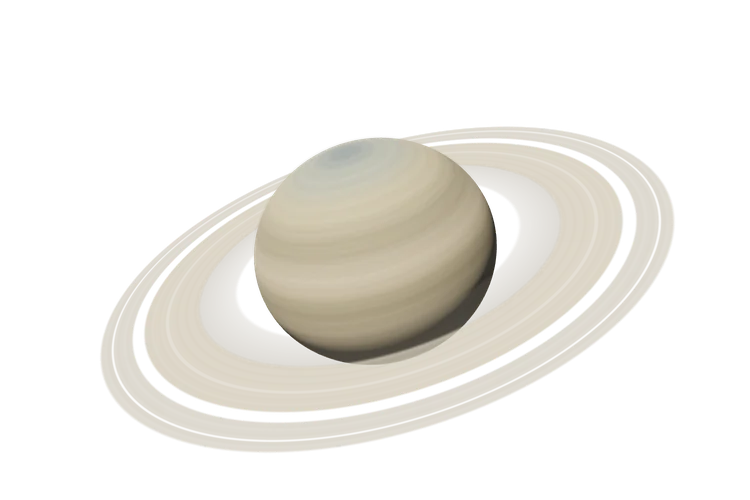
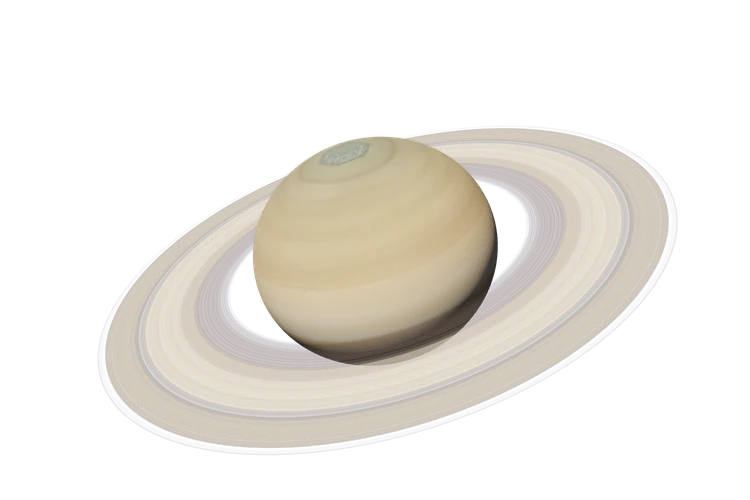
feat: Saturno com texturas fotográficas e bordas suavizadas
- texturas baseadas em imagens reais (Solar System Scope, CC BY 4.0)
- renderização acima de 1x no desktop e malha mais densa
- anéis com filtragem radial, borda suavizada e luz transmitida
- imagem reserva refeita a partir do novo modelo

Changed region(s): [[0.1227, 0.24, 0.92, 0.93]]

diff --git a/assets/js/saturn-model.js b/assets/js/saturn-model.js
@@ -34,6 +34,9 @@ const planetFragment = sharedFragment + '\n' + [
   ' vec3 normal = normalize(vLocalNormal);',
   ' vec3 view = normalize(uCamera - vLocalPosition);',
   ' vec3 albedo = texture2D(uSurface, vec2(vUv.x + uRotation, vUv.y)).rgb;',
+  ' float facing = max(dot(normal, view), 0.0);',
+  // Limb darkening of a gas giant: the disk dims toward its edge.
+  ' albedo *= mix(0.62, 1.0, pow(facing, 0.38));',
   ' float direct = max(dot(normal, uLight), 0.0);',
   ' float shadow = 1.0;',
   ' if (abs(uLight.y) > 0.02) {',
@@ -52,7 +55,7 @@ const planetFragment = sharedFragment + '\n' + [
   ' }',
   ' vec3 ambient = vec3(0.075, 0.083, 0.1);',
   ' vec3 sunlight = vec3(1.25, 1.17, 1.02) * pow(direct, 0.92) * shadow;',
-  ' float rim = 1.0 - max(dot(normal, view), 0.0);',
+  ' float rim = 1.0 - facing;',
   ' float limb = rim * rim * rim;',
   ' vec3 scattering = vec3(0.13, 0.12, 0.095) * limb * smoothstep(-0.15, 0.75, dot(normal, uLight));',
   ' vec3 color = (albedo * (ambient + sunlight) + scattering) * uIntensity;',
@@ -67,16 +70,22 @@ const ringFragment = sharedFragment + '\n' + [
   'void main() {',
   ' float radius = length(vLocalPosition.xz);',
   ' float coordinate = ringCoordinate(radius);',
-  // A slightly wider mip footprint filters thin radial bands during rotation.
-  ' vec4 band = texture2D(uRings, vec2(coordinate, 0.5), 0.6);',
-  ' if (band.a <= 0.0) discard;',
+  // Explicit radial derivatives filter thin bands; the edges fade over one pixel.
+  ' float dx = dFdx(radius), dy = dFdy(radius);',
+  ' float pixel = max(abs(dx) + abs(dy), 1e-5);',
+  ' vec4 band = textureGrad(uRings, vec2(coordinate, 0.5), vec2(dx / 1.18 * 1.25, 0.0), vec2(dy / 1.18 * 1.25, 0.0));',
+  ' band.a *= smoothstep(1.18, 1.18 + pixel * 1.5, radius) * (1.0 - smoothstep(2.36 - pixel * 1.5, 2.36, radius));',
+  ' if (band.a <= 0.002) discard;',
   ' vec3 rayOrigin = vLocalPosition / vec3(1.0, 0.9, 1.0);',
   ' vec3 rayDirection = uLight / vec3(1.0, 0.9, 1.0);',
   ' float closest = max(0.0, -dot(rayOrigin, rayDirection) / dot(rayDirection, rayDirection));',
   ' float distanceToBody = length(rayOrigin + rayDirection * closest);',
   ' float lightThrough = closest > 0.001 ? smoothstep(0.985, 1.035, distanceToBody) : 1.0;',
   ' float planeLight = 0.5 + 0.5 * abs(uLight.y);',
-  ' vec3 color = band.rgb * (0.10 + vec3(1.12, 1.06, 0.95) * planeLight * lightThrough) * uIntensity;',
+  // Seen from the unlit face, sparse ring regions glow and dense ones darken.
+  ' float litFace = step(0.0, uLight.y * (uCamera.y - vLocalPosition.y));',
+  ' float transmission = mix(0.45 + 0.55 * (1.0 - band.a), 1.0, litFace);',
+  ' vec3 color = band.rgb * (0.10 + vec3(1.12, 1.06, 0.95) * planeLight * lightThrough * transmission) * uIntensity;',
   ' gl_FragColor = vec4(color, band.a);',
   ' #include <tonemapping_fragment>',
   ' #include <colorspace_fragment>',
@@ -107,7 +116,7 @@ export async function createSaturnModel({ surfaceUrl, ringUrl, compact = false }
   for (const texture of textures) {
     texture.colorSpace = SRGBColorSpace;
     texture.wrapT = ClampToEdgeWrapping;
-    texture.anisotropy = compact ? 2 : 4;
+    texture.anisotropy = compact ? 4 : 8;
   }
   surface.wrapS = RepeatWrapping;
   rings.wrapS = ClampToEdgeWrapping;
@@ -122,12 +131,12 @@ export async function createSaturnModel({ surfaceUrl, ringUrl, compact = false }
     uIntensity: { value: 1 }
   };
   const uniforms = { ...shared, uSurface: { value: surface }, uRings: { value: rings }, uRotation: { value: 0 } };
-  const globeGeometry = new SphereGeometry(1, compact ? 64 : 96, compact ? 40 : 64);
+  const globeGeometry = new SphereGeometry(1, compact ? 112 : 192, compact ? 72 : 128);
   globeGeometry.scale(1, 0.9, 1);
   const globe = new Mesh(globeGeometry, new ShaderMaterial({ vertexShader, fragmentShader: planetFragment, uniforms }));
   globe.name = 'Saturn body';
   group.add(globe);
-  const ringGeometry = new RingGeometry(1.18, 2.36, compact ? 160 : 256, 1);
+  const ringGeometry = new RingGeometry(1.18, 2.36, compact ? 320 : 640, 1);
   ringGeometry.rotateX(-Math.PI / 2);
   const ring = new Mesh(ringGeometry, new ShaderMaterial({
     vertexShader, fragmentShader: ringFragment, uniforms,
@@ -136,7 +145,7 @@ export async function createSaturnModel({ surfaceUrl, ringUrl, compact = false }
   ring.renderOrder = 2;
   ring.name = 'Saturn rings';
   group.add(ring);
-  const atmosphereGeometry = new SphereGeometry(1.014, compact ? 48 : 64, compact ? 32 : 48);
+  const atmosphereGeometry = new SphereGeometry(1.014, compact ? 96 : 160, compact ? 64 : 96);
   atmosphereGeometry.scale(1, 0.9, 1);
   const atmosphere = new Mesh(atmosphereGeometry, new ShaderMaterial({
     vertexShader, fragmentShader: atmosphereFragment, uniforms: shared,

diff --git a/index.html b/index.html
@@ -9,7 +9,7 @@
 <link rel="stylesheet" href="assets/css/saturn.css">
 <link rel="stylesheet" href="assets/css/page-transitions.css">
 <script src="assets/js/page-transitions.js" data-inline data-home="./"></script>
-</head><body class="portfolio-site home-page saturn-home"><div class="saturn-scene" data-saturn-module="assets/js/saturn-scene.js" data-saturn-surface="assets/img/saturn/surface.webp" data-saturn-rings="assets/img/saturn/rings.png" aria-hidden="true"><div class="saturn-fallback"><img src="assets/img/saturn/poster.webp" width="750" height="500" alt="" decoding="async" fetchpriority="low"></div></div>
+</head><body class="portfolio-site home-page saturn-home"><div class="saturn-scene" data-saturn-module="assets/js/saturn-scene.js" data-saturn-surface="assets/img/saturn/surface.webp" data-saturn-surface-compact="assets/img/saturn/surface-compact.webp" data-saturn-rings="assets/img/saturn/rings.png" aria-hidden="true"><div class="saturn-fallback"><img src="assets/img/saturn/poster.webp" width="750" height="500" alt="" decoding="async" fetchpriority="low"></div></div>
 <span class="opening-top-sentinel" data-opening-anchor aria-hidden="true"></span><a class="skip-link" href="#conteudo">Ir para o conteúdo</a>
 <header class="site-header"><div class="header-inner wrap">
 <a class="brand" href="./">Franklin Júnior Maciel<span class="brand-note">Portfólio</span></a>

diff --git a/assets/js/saturn-scene.js b/assets/js/saturn-scene.js
@@ -175,9 +175,11 @@ export async function mountSaturn(host) {
   }
   function sizeRenderer(force=false) {
     if(!renderer)return;
-    // Keep the drawing buffer stable during motion, including at high device DPR.
-    const cap=compact?1.75:2;
-    const ratio=Math.min(window.devicePixelRatio||1,cap,Math.sqrt(3000000/(width*height)));
+    // Keep the drawing buffer stable during motion. Desktop renders above 1x on
+    // standard screens so ring edges stay smooth while the planet moves.
+    const dpr=window.devicePixelRatio||1;
+    const desired=compact?Math.min(dpr,1.75):Math.min(Math.max(dpr,1.5),2);
+    const ratio=Math.min(desired,Math.sqrt((compact?3000000:6500000)/(width*height)));
     if(!force&&ratio===renderRatio)return;
     renderRatio=ratio;
     renderer.setPixelRatio(ratio);
@@ -302,7 +304,7 @@ export async function mountSaturn(host) {
     sizeRenderer(true);
     renderCanvas.addEventListener('webglcontextlost',event=>{event.preventDefault();useImage();},events);
     const loaded=await createSaturnModel({
-      surfaceUrl:new URL(host.dataset.saturnSurface,document.baseURI).href,
+      surfaceUrl:new URL((compact&&host.dataset.saturnSurfaceCompact)||host.dataset.saturnSurface,document.baseURI).href,
       ringUrl:new URL(host.dataset.saturnRings,document.baseURI).href,
       compact
     });

diff --git a/README.md b/README.md
@@ -36,7 +36,7 @@ Saturno aparece somente na inicial, depois da segunda dobra: a apresentação do
 
 A seleção das poses acompanha a rolagem em um callback passivo, agrupado por quadro, e usa a altura atual da janela, separada da altura estável do canvas. Como o rodapé é curto, a transição final começa quando metade dele fica visível. Isso permite concluir o percurso no centro mesmo parando pouco antes do fim e evita depender de um evento de interseção a 100%, que pode não ocorrer por arredondamento da altura da página. Os testes cobrem passos de roda do mouse, a tecla End, retorno e a imagem renderizada em 390, 1440 e 1916 px.
 
-`assets/js/saturn-model.js` constrói o corpo achatado, os anéis transparentes e a atmosfera, com sombras entre os elementos e texturas procedurais em `assets/img/saturn/`. Os anéis têm transições suaves de densidade e filtragem por mipmaps; a sombra usa derivadas explícitas para amostrar a textura. `saturn.css` mantém o canvas atrás do HTML e protege o contraste com uma sombra ampla. A cena usa três chamadas de desenho, suavização de bordas também no celular e limite de 3 milhões de pixels. O DPR fica limitado a 1,75 no celular e 2 no desktop, sem redução de resolução durante o movimento. A animação pausa em aba oculta, durante a ampliação das fotos e quando a cena é suprimida para impressão ou cores forçadas. Uma imagem de 52 KB permanece disponível sem JavaScript, sem WebGL ou quando o módulo, os materiais ou o contexto gráfico falham, com movimento discreto de reserva. A licença MIT do Three.js acompanha os arquivos.
+`assets/js/saturn-model.js` constrói o corpo achatado, os anéis transparentes e a atmosfera, com sombras entre os elementos, escurecimento na borda do disco e luz atravessando os anéis pelo lado oposto ao Sol. As texturas em `assets/img/saturn/` derivam dos mapas fotográficos da [Solar System Scope](https://www.solarsystemscope.com/textures/) (CC BY 4.0, baseados em imagens da NASA): `surface.webp` com 4096 px, `surface-compact.webp` com 2048 px para celular e `rings.png` com o perfil real dos anéis em tom quente. O crédito exigido pela licença é publicado em `assets/img/saturn/CREDITOS.txt`, junto da licença do Three.js. Os anéis têm transições suaves de densidade, filtragem por mipmaps com derivadas radiais e bordas suavizadas em um pixel. No desktop, a cena renderiza a 1,5x em telas comuns, com limite de 6,5 milhões de pixels; no celular, até 1,75x e 3 milhões; a sombra usa derivadas explícitas para amostrar a textura. `saturn.css` mantém o canvas atrás do HTML e protege o contraste com uma sombra ampla. A cena usa três chamadas de desenho, suavização de bordas também no celular e limite de 3 milhões de pixels. O DPR fica limitado a 1,75 no celular e 2 no desktop, sem redução de resolução durante o movimento. A animação pausa em aba oculta, durante a ampliação das fotos e quando a cena é suprimida para impressão ou cores forçadas. Uma imagem de 52 KB permanece disponível sem JavaScript, sem WebGL ou quando o módulo, os materiais ou o contexto gráfico falham, com movimento discreto de reserva. A licença MIT do Three.js acompanha os arquivos.
 
 No WebKit, cada quadro WebGL é copiado para o canvas 2D de apresentação, na mesma tarefa de desenho. Isso evita o desaparecimento do planeta na abertura e após redimensionar a tela; o contexto WebGL e a cena continuam únicos. A cópia acompanha a cadência da animação e suas pausas. Chrome e Edge apresentam o canvas WebGL diretamente para evitar uma leitura síncrona dos pixels a cada quadro. A cena usa a altura estável da janela (`lvh`, com fallback para `vh`), e mudanças de altura preservam o percurso em andamento. Ao abrir os registros do método, o fundo fica mais discreto para proteger os textos pequenos. O poster recebe essa atenuação enquanto não há controlador de poses.
 
